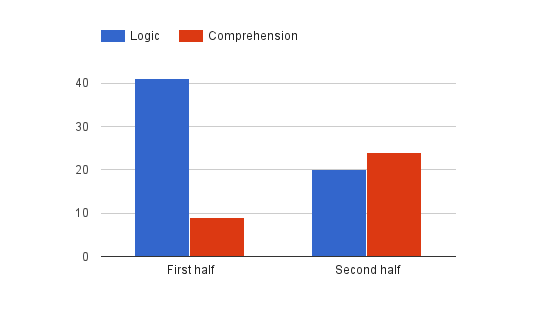
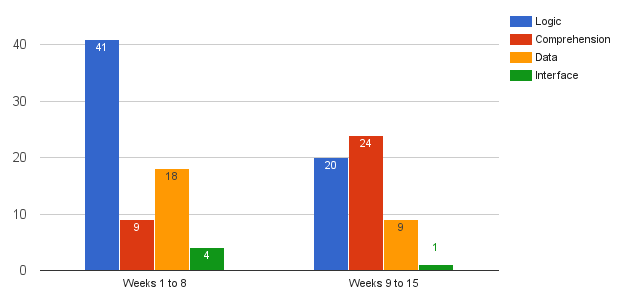
Update chart and remove reference to Autolab

diff --git a/sigcse-paper.tex b/sigcse-paper.tex
@@ -232,7 +232,7 @@ Misunderstanding the specification of \texttt{cons} and \texttt{nil}.
 \end{figure}
 
 \subsection{Misunderstanding error messages}
-Due to having limited prior programming experience and possibly because they are using new tools, students are often stumped by error messages and warnings, both from the compiler and from Autolab which autogrades submitted code. Figure \ref{fig:comp3} illustrates a comprehension error that is caused by misunderstanding an error message.
+Due to having limited prior programming experience and possibly because they are using new tools, students are often stumped by error messages and warnings, both from the compiler and the autograder. Figure \ref{fig:comp3} illustrates a comprehension error that is caused by misunderstanding an error message.
 
 \begin{figure}
 \begin{framed}
@@ -420,7 +420,7 @@ We were able to record \numtotal bugs throughout the course of the semester. Whi
 
 \begin{figure}
 \centering
-\includegraphics[scale=0.41]{figures/types.png}
+\includegraphics[scale=0.38]{figures/types.png}
 \caption{Recorded bugs, split by type and time}
 \label{fig:types}
 \end{figure}
